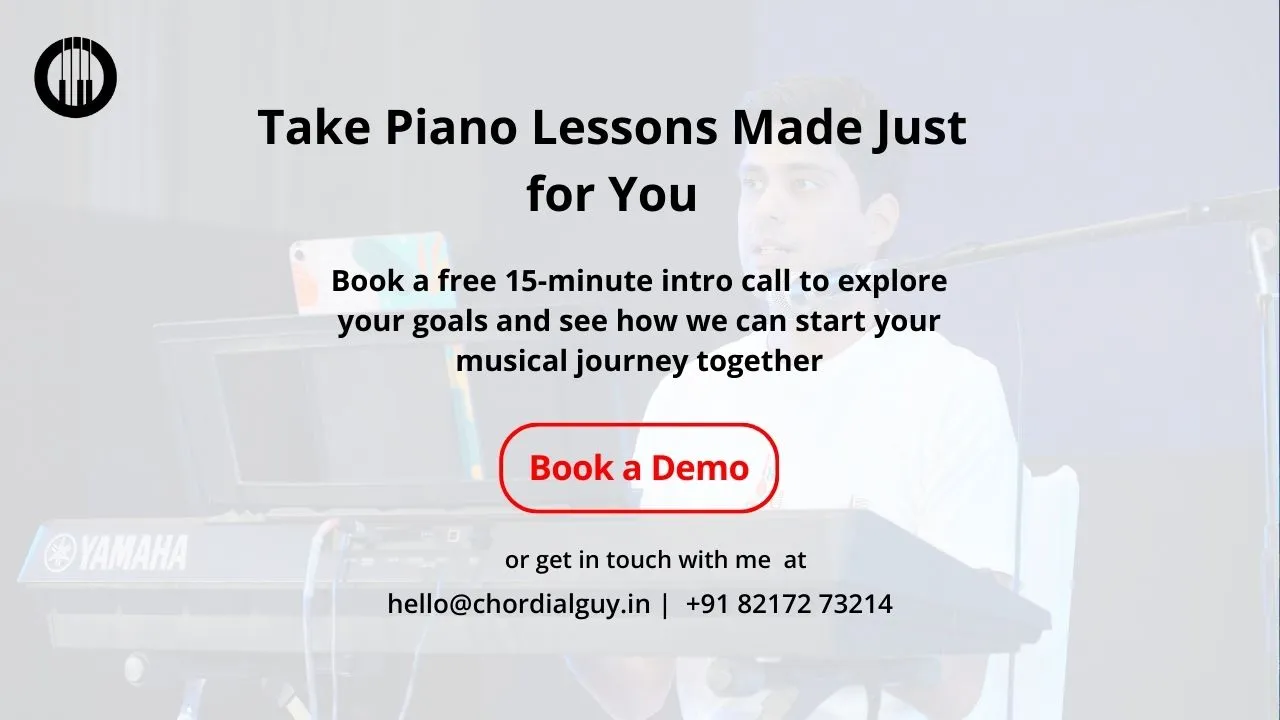
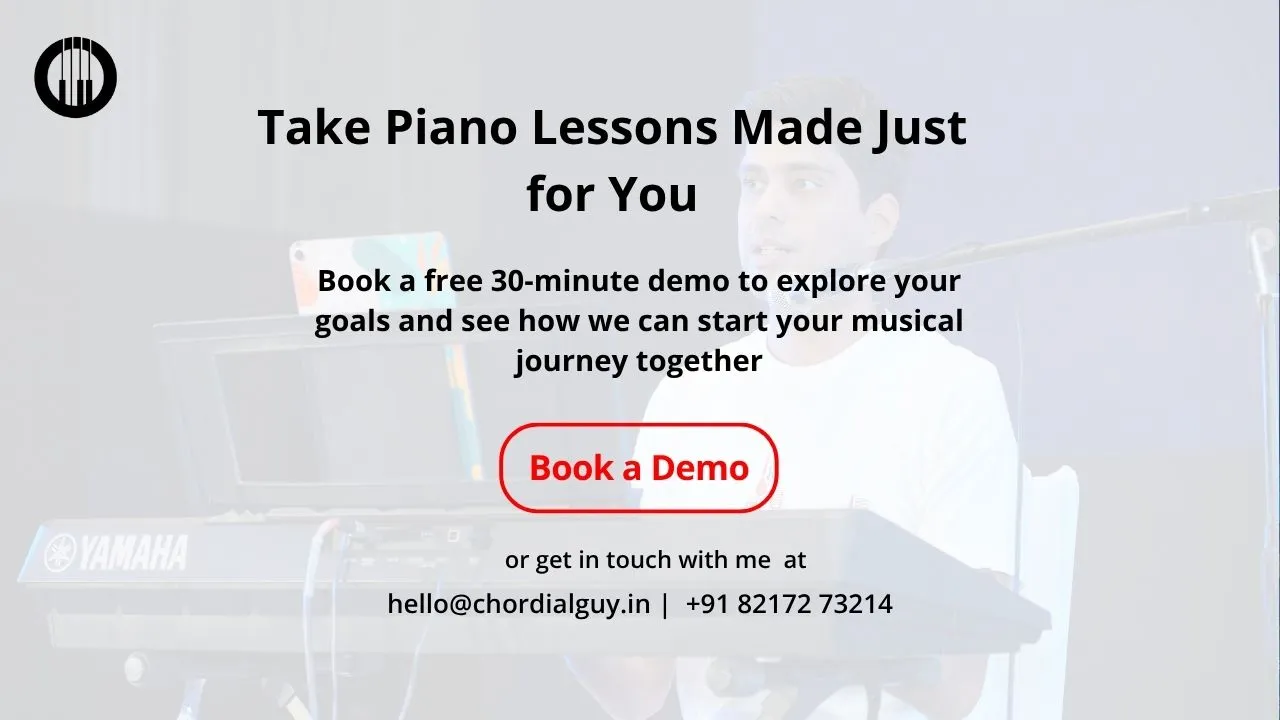
Demo instead of call

Changed region(s): [[0.25, 0.3667, 0.75, 0.5194], [0.5938, 0.6111, 0.625, 0.7028]]

diff --git a/docs/piano-classes.html b/docs/piano-classes.html
@@ -11,7 +11,7 @@ noFooter: false
     <div class="wrapper">
         <h1>Learn Piano with Chordial Guy</h1>
         <p>Discover the joy of playing piano, tailored to your unique musical journey.</p>
-        <a target="_blank" href="{{ site.book_intro_call_link }}" class="cta-button">Book A Free Intro Call</a>
+        <a target="_blank" href="{{ site.book_intro_call_link }}" class="cta-button">Book A Free Demo</a>
       </div>
   </section>
 
@@ -84,9 +84,9 @@ noFooter: false
 
   <section class="piano-class-section book-call">
     <div class="wrapper">
-        <h3>Book a Free 15-Minute Intro Call</h3>
+        <h3>Book a Free 30-Minute Demo</h3>
         <p>Let’s talk about your goals and see how we can start your musical journey together.</p>
-        <a target="_blank" href="{{ site.book_intro_call_link }}" class="cta-button">Book A Call</a>
+        <a target="_blank" href="{{ site.book_intro_call_link }}" class="cta-button">Book Now</a>
     </div>
   </section>
 
